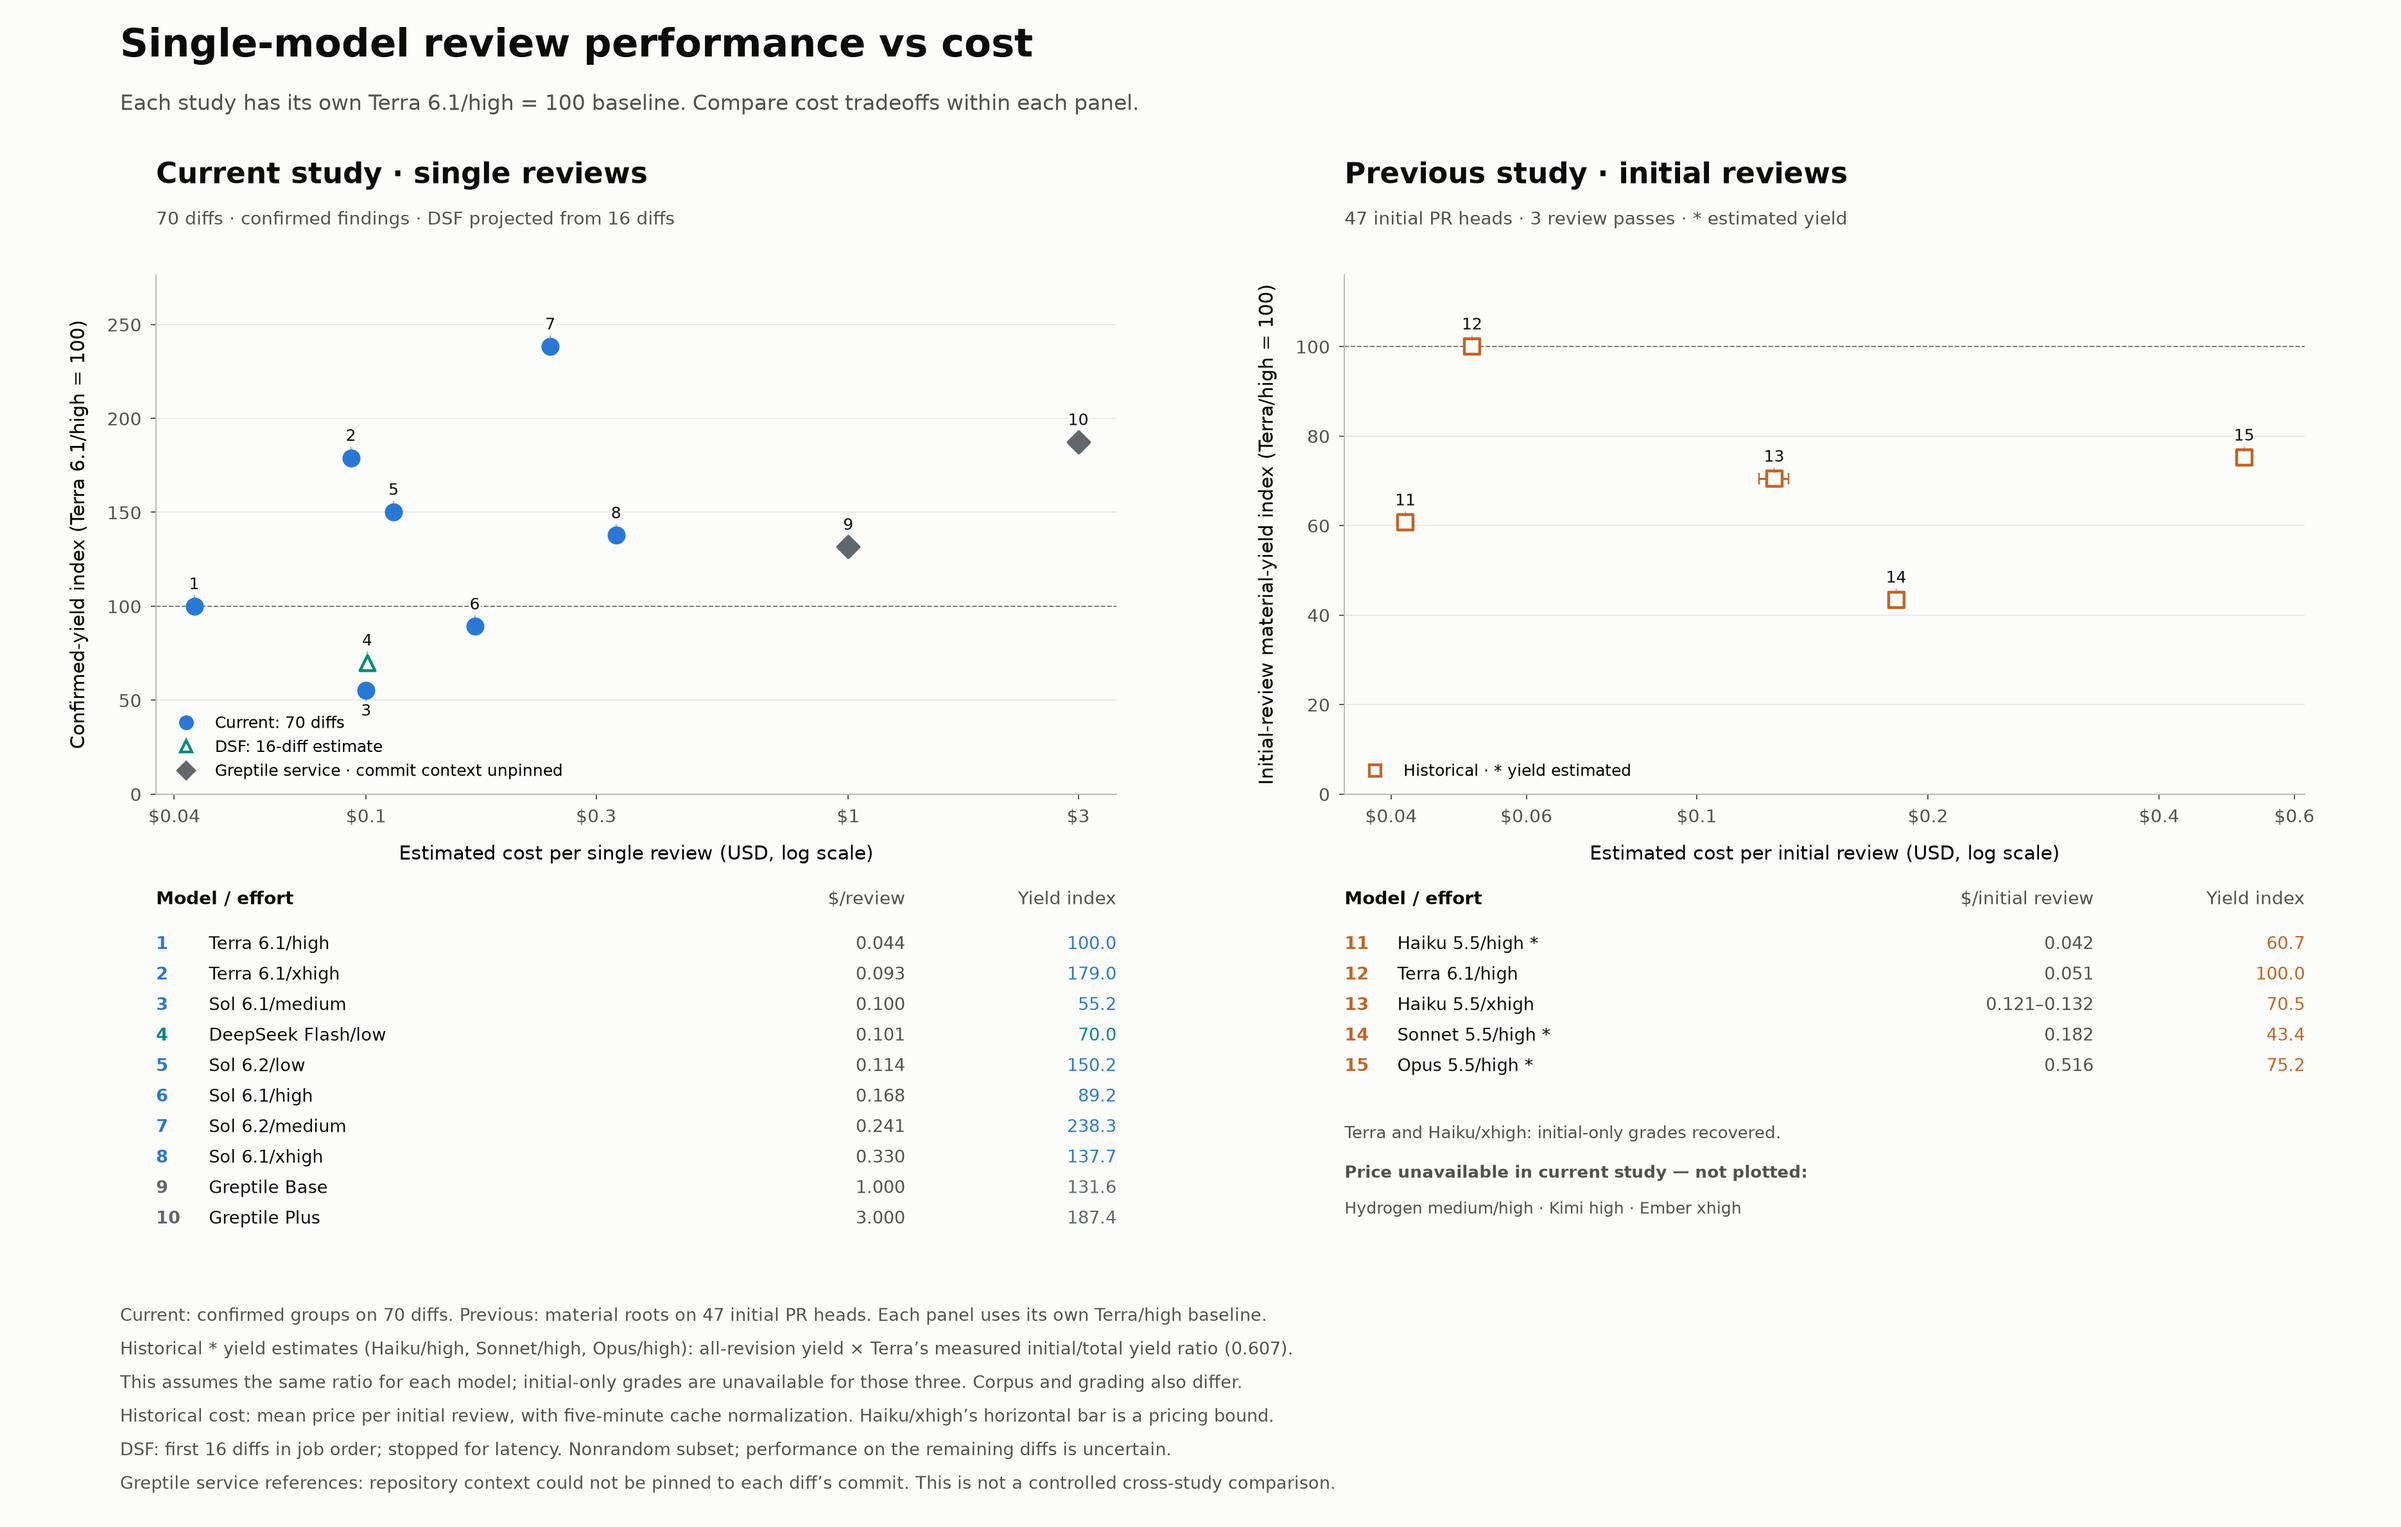
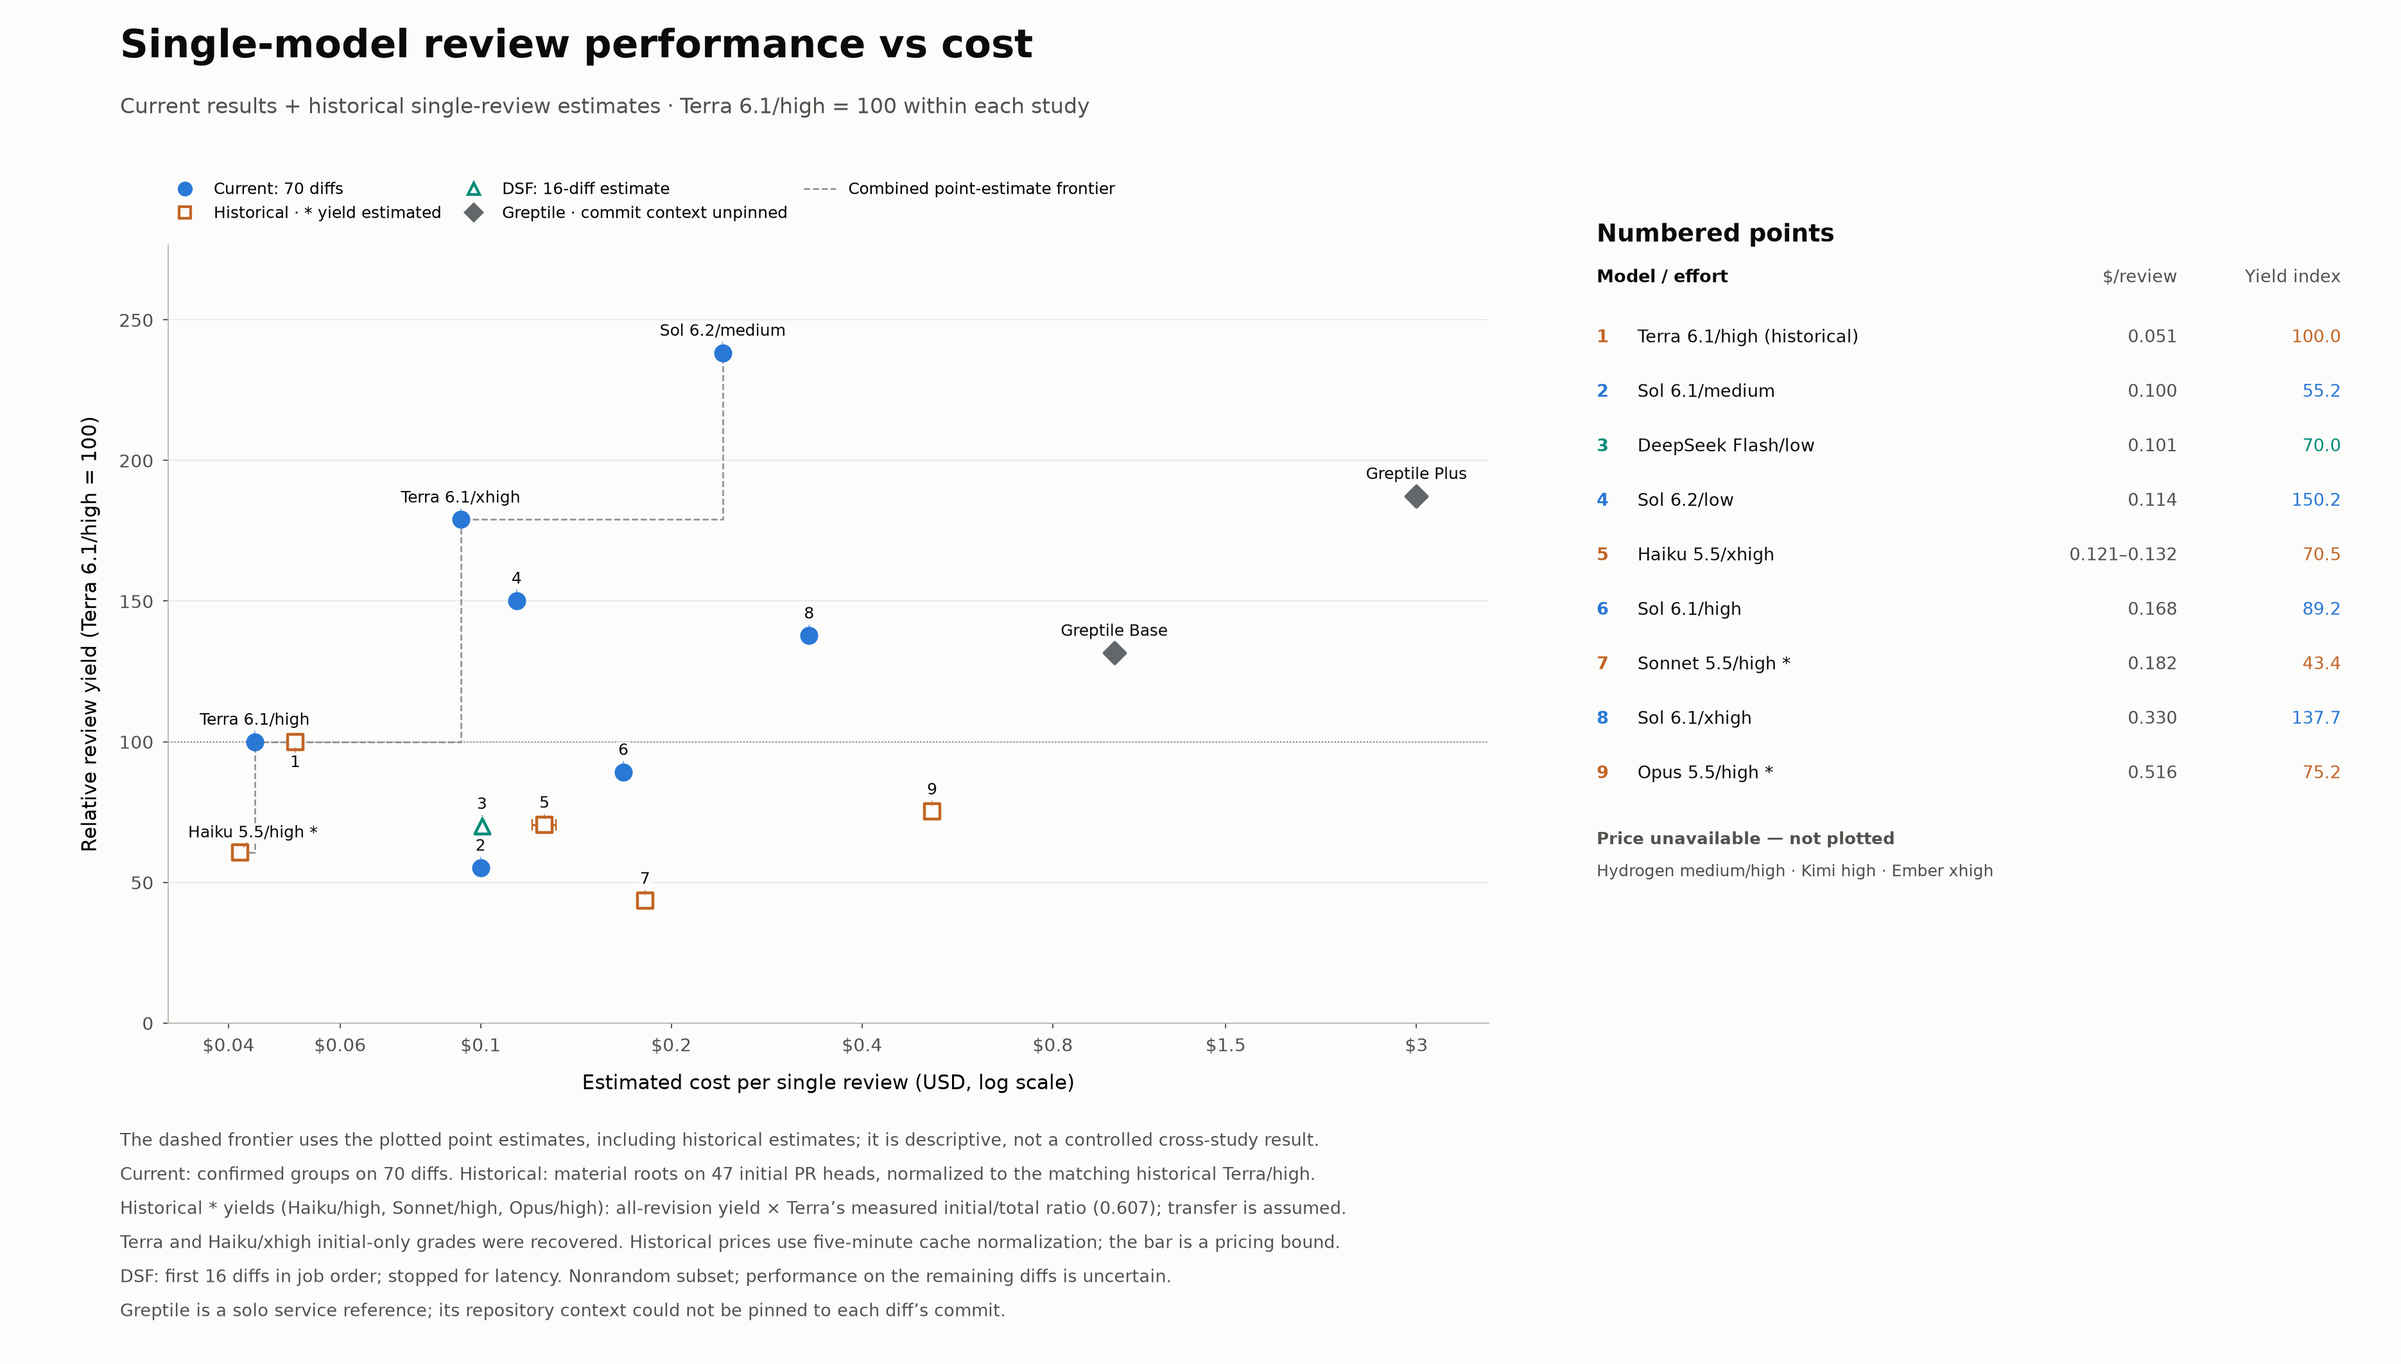
Combine solo-review estimates and label frontier models by name

diff --git a/.agents/evals/review-arms/results/sol-62-opus-high/README.md b/.agents/evals/review-arms/results/sol-62-opus-high/README.md
@@ -137,14 +137,21 @@ historical frontier and retain the original per-configuration sample caps.
 
 ### Single-model review performance versus cost
 
-![Single-model yield versus workflow cost, including historical Claude and partial DSF estimates](review-single-model-cost.png)
+![Current single-model results and historical estimates on one cost-versus-yield chart](review-single-model-cost.png)
 
-Both panels now price **single reviews**: current costs per review and historical
-costs per initial-head review. Separate study panels retain their own Terra
-6.1/high = 100 baselines and cost-sorted keys. Filled markers are current
-measurements; hollow markers are historical or partial-cohort DSF results.
-An asterisk identifies the three historical yields that require estimation.
-The series count different source outcomes:
+The single scatter plot combines **current results and historical estimates**
+using **cost per single review**. Yield is normalized to Terra 6.1/high = 100
+within each source study. Filled markers are current measurements; hollow
+markers are historical or partial-cohort DSF results. An asterisk identifies
+three estimated historical yields.
+
+The **combined point-estimate frontier** minimizes cost and maximizes the
+plotted yield index across non-Greptile points. It is descriptive: historical
+and current outcomes use different corpora, grading and normalization baselines.
+Its models and both Greptile solo references are **labeled directly by name**;
+the other nine points use numbers with a lookup key. The frontier is calculated
+from the plotted values, rather than a hardcoded list. These series count
+different source outcomes:
 
 - **Current study:** the single-reviewer rows of [pareto.csv](pareto.csv), from
   the blinded Opus `verify9` round. Yield averages one reviewer's confirmed
